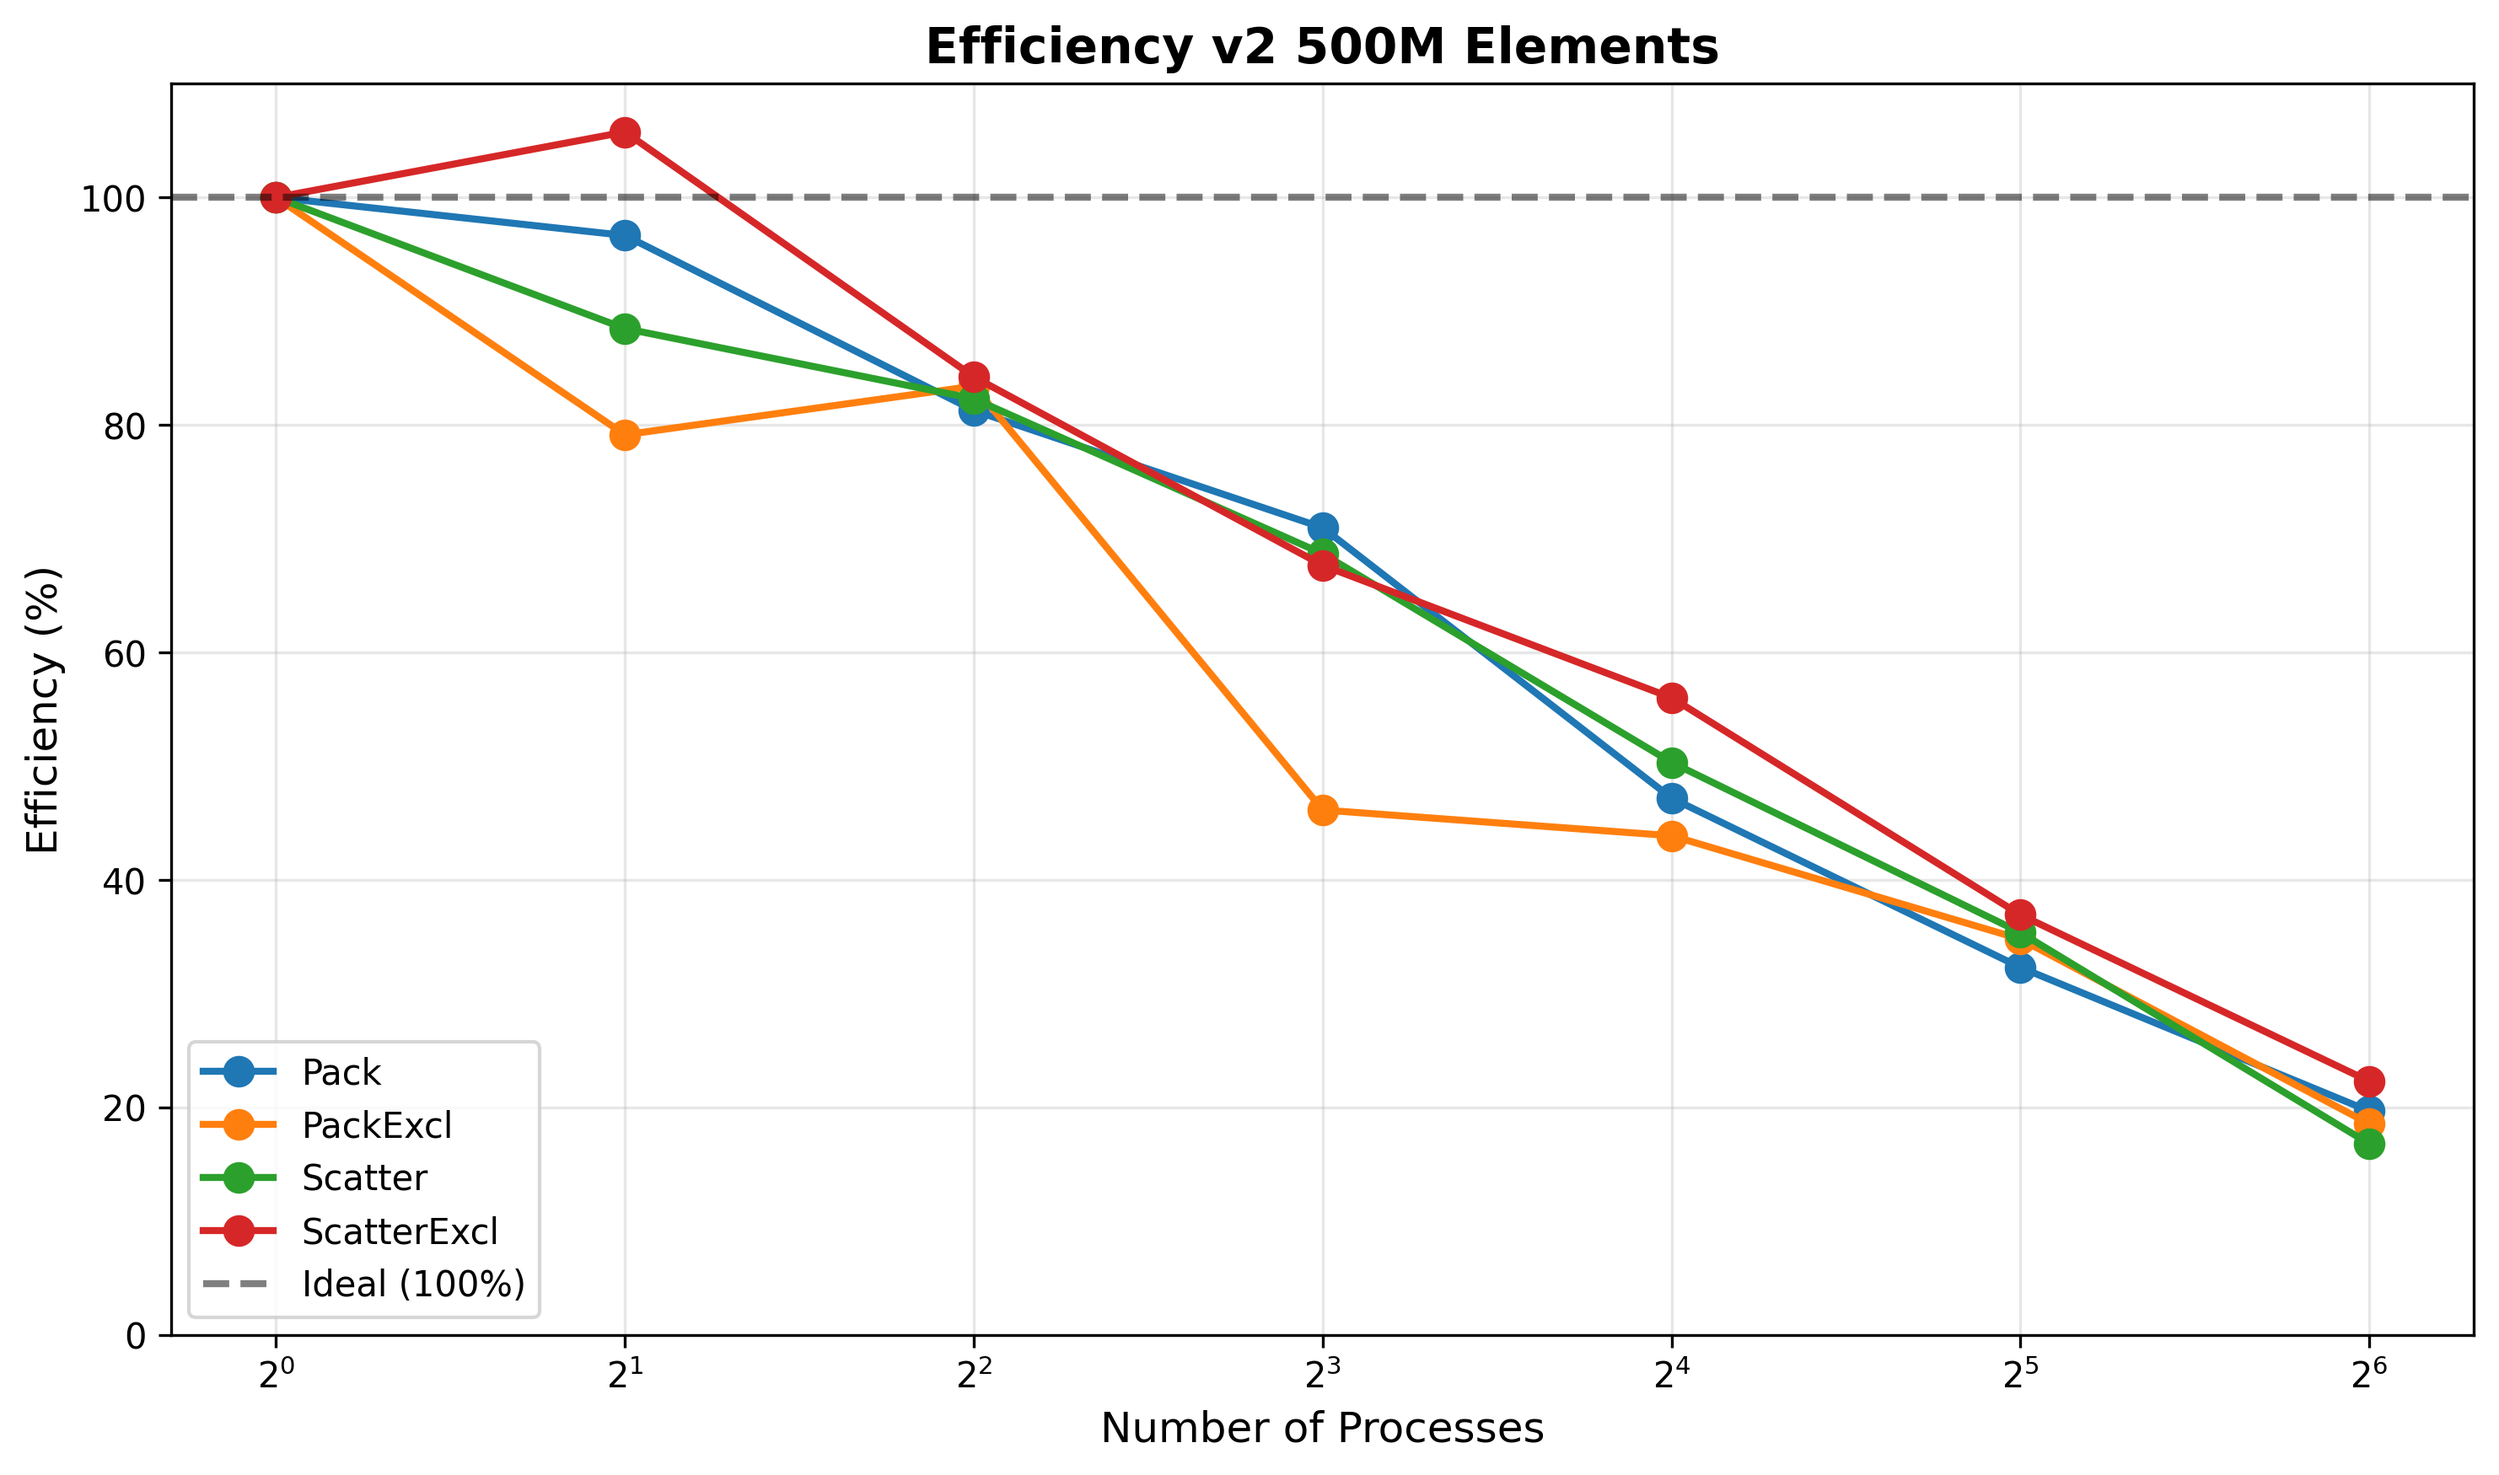
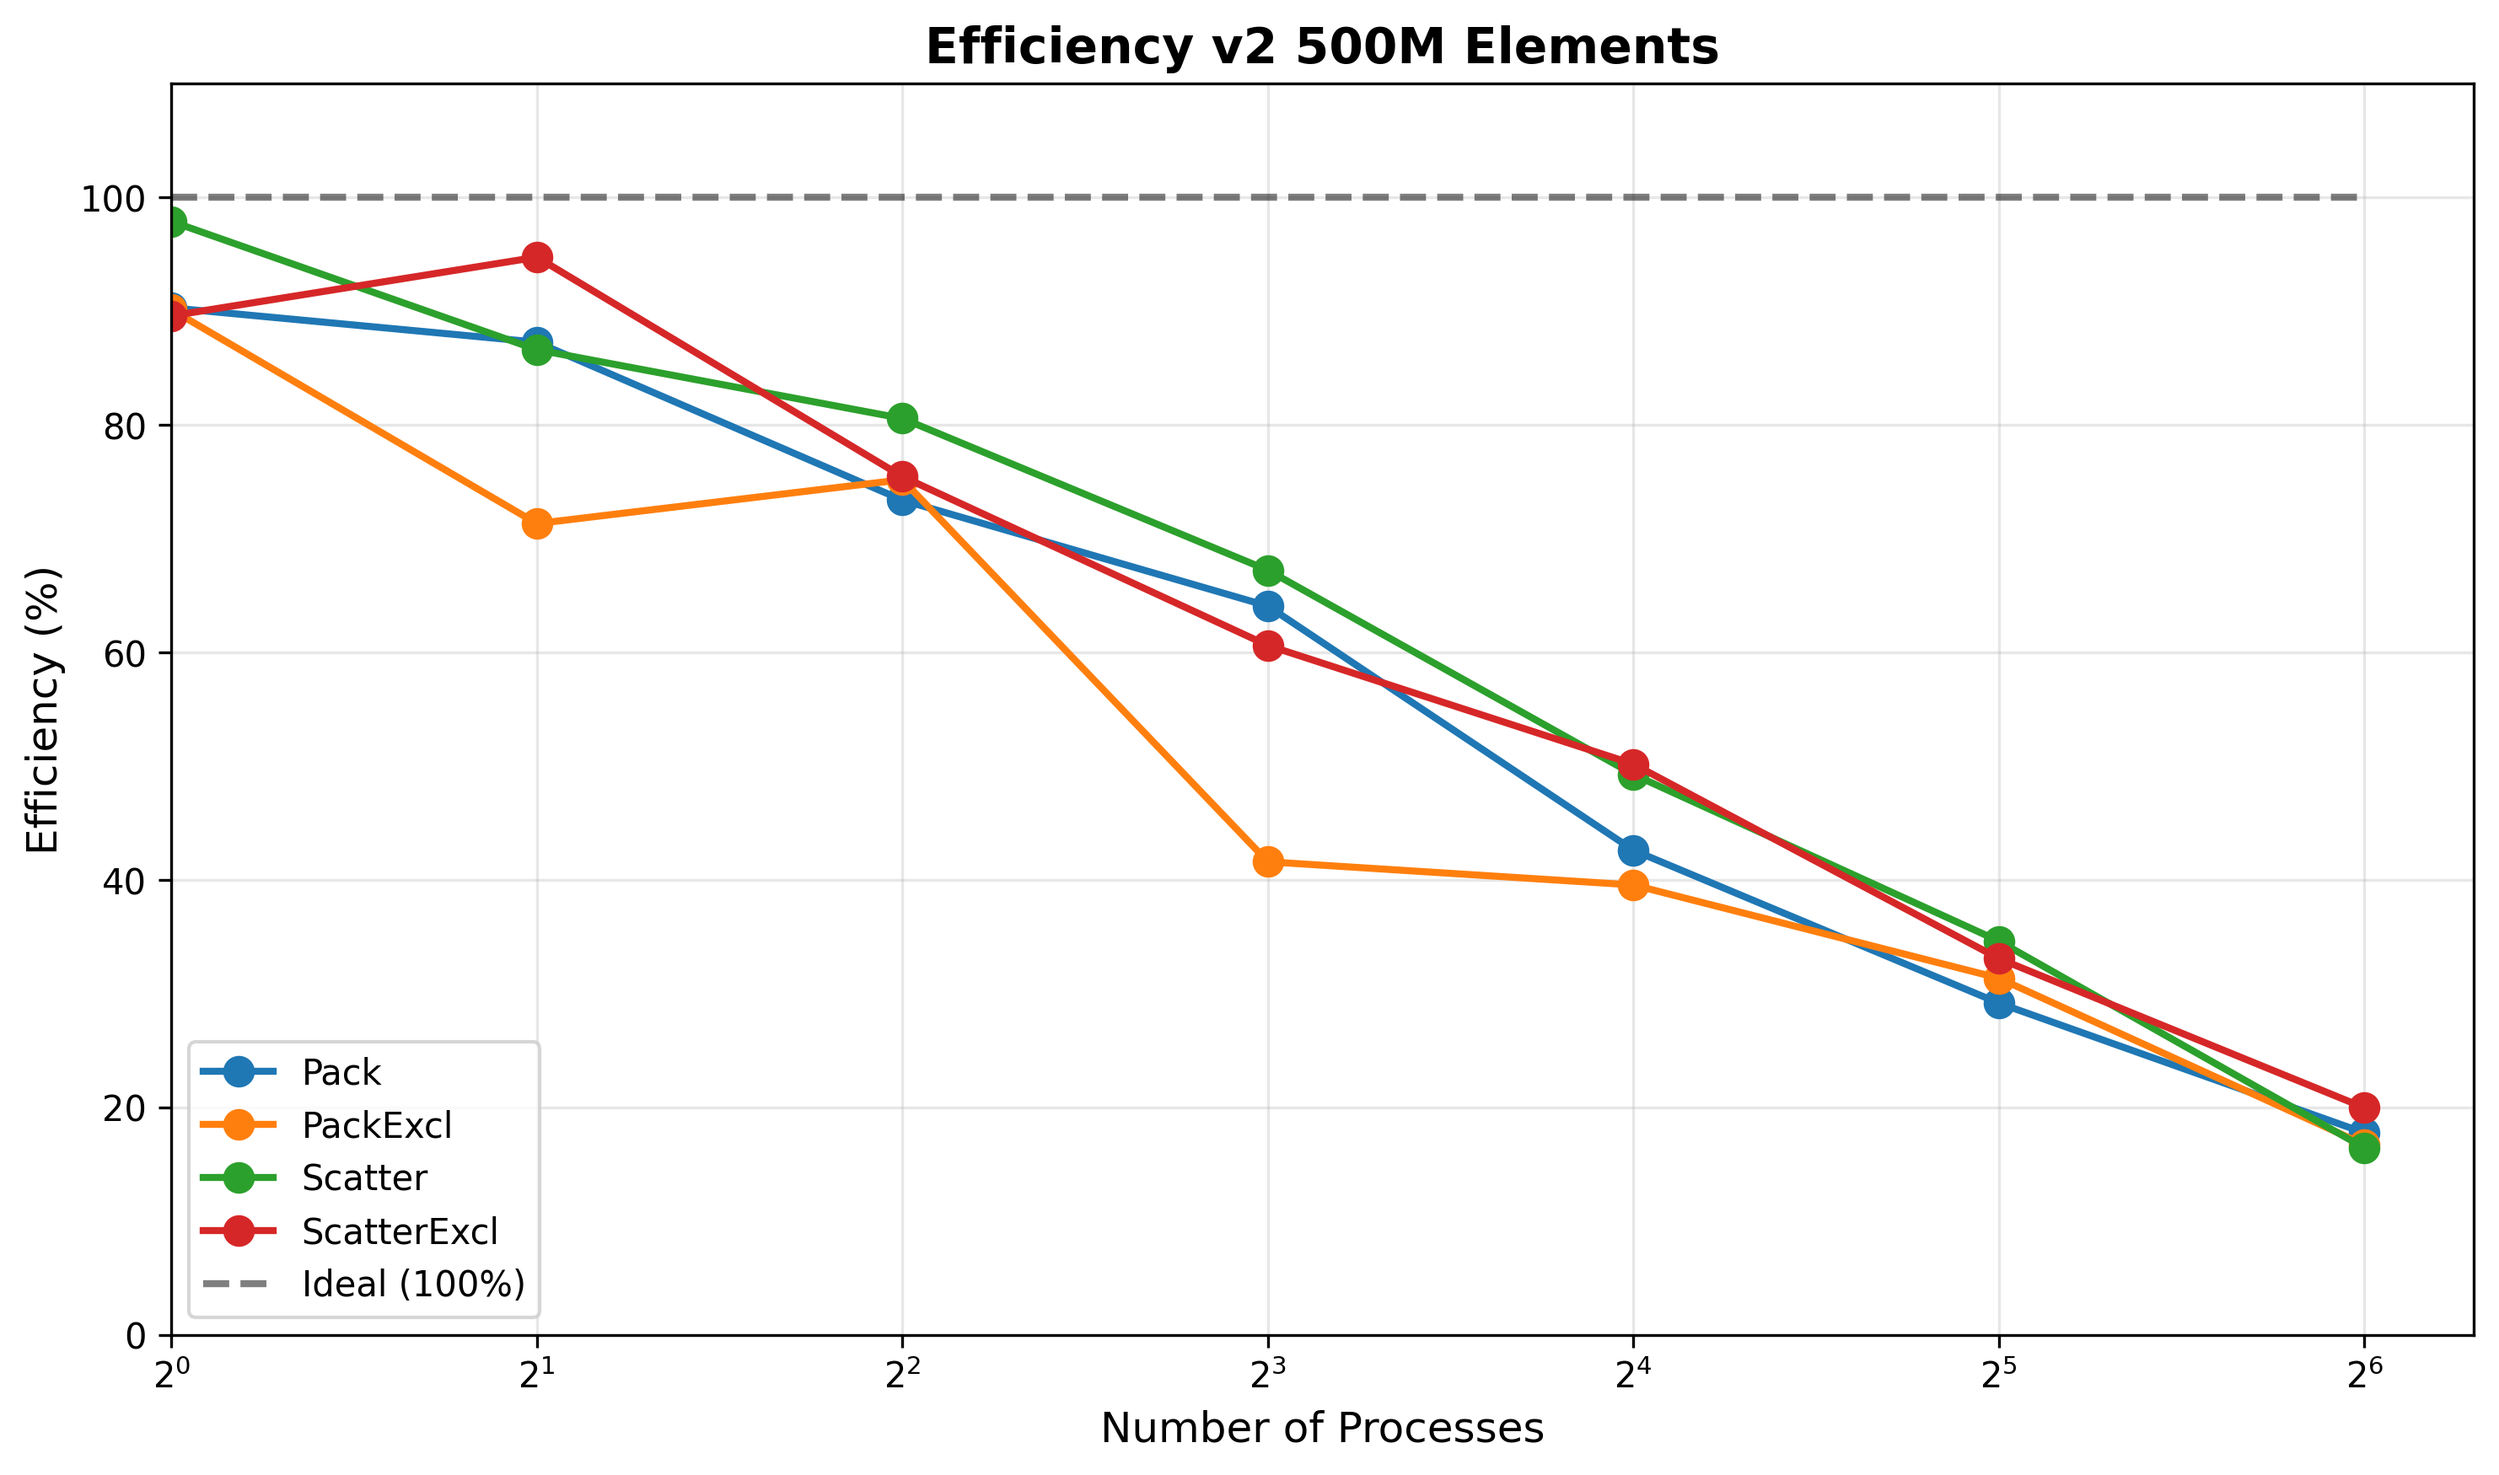
fix plots

diff --git a/scripts/plot_speedup_v2.py b/scripts/plot_speedup_v2.py
@@ -10,7 +10,7 @@ def parse_configuration(config_str):
     except:
         return {}
 
-def analyze_csv(csv_path):
+def analyze_csv(csv_path, baseline_time):
     data = pd.read_csv(csv_path)
 
     data['config'] = data['configuration'].apply(parse_configuration)
@@ -24,19 +24,27 @@ def analyze_csv(csv_path):
 
     data = data.sort_values('processes')
 
-    # Since there are multiple rows with the same process count, keep only the row with minimum time
+    # Since there are multiple configurations per process count, select the one with the minimum value
     data = data.loc[data.groupby('processes')['avg_time_taken'].idxmin()]
 
-    baseline = data[data['processes'] == 1]['avg_time_taken'].iloc[0]
-
-    data['speedup'] = baseline / data['avg_time_taken']
+    data['speedup'] = baseline_time / data['avg_time_taken']
     data['efficiency'] = (data['speedup'] / data['processes']) * 100
 
     return data
 
 
-def plot_speedup(csv_files, folder='data', output='speedup_plot.png'):
+def plot_speedup(csv_files, baseline_file, folder='data', output='speedup_plot.png'):
+    baseline_path = os.path.join(folder, baseline_file)
+    if not os.path.exists(baseline_path):
+        raise FileNotFoundError(f"Baseline file not found: {baseline_path}")
+
+    baseline_data = pd.read_csv(baseline_path)
+    baseline_time = baseline_data['avg_time_taken'].iloc[0]
+    print(f"Using baseline time from {baseline_file}: {baseline_time:.2f}s\n")
+
     plt.figure(figsize=(10, 6))
+
+    all_processes = []
 
     for csv_info in csv_files:
         csv_path = os.path.join(folder, csv_info['path'])
@@ -45,25 +53,20 @@ def plot_speedup(csv_files, folder='data', output='speedup_plot.png'):
             print(f"Warning: {csv_path} not found, skipping...")
             continue
 
-        df = analyze_csv(csv_path)
+        df = analyze_csv(csv_path, baseline_time)
 
         label = csv_info['label']
 
         plt.plot(df['processes'], df['speedup'], 'o-',
                 label=label, linewidth=2, markersize=8)
 
+        print(f"{label}:")
         print(f"  Processes: {df['processes'].tolist()}")
         print(f"  Best configs: {df['config_label'].tolist()}")
         print(f"  Times: {df['avg_time_taken'].round(2).tolist()}s")
-        print(f"  Speedup: {df['speedup'].round(2).tolist()}x")
+        print(f"  Speedup: {df['speedup'].round(2).tolist()}x\n")
 
-    all_processes = []
-    for csv_info in csv_files:
-        csv_name = csv_info['path']
-        csv_path = os.path.join(folder, csv_name)
-        if os.path.exists(csv_path):
-            df = analyze_csv(csv_path)
-            all_processes.extend(df['processes'].tolist())
+        all_processes.extend(df['processes'].tolist())
 
     if all_processes:
         max_processes = max(all_processes)
@@ -73,12 +76,13 @@ def plot_speedup(csv_files, folder='data', output='speedup_plot.png'):
 
     plt.xlabel('Number of Processes', fontsize=12)
     plt.ylabel('Speedup', fontsize=12)
-    plt.title('Speedup v2 50M Elements',
+    plt.title('Speedup v1 500M Elements',
               fontsize=14, fontweight='bold')
     plt.legend(fontsize=10)
     plt.grid(True, alpha=0.3)
     plt.xscale('log', base=2)
     plt.yscale('log', base=2)
+    plt.xlim(left=1)
 
     plt.tight_layout()
     plt.savefig(output, dpi=300, bbox_inches='tight')
@@ -88,12 +92,13 @@ def plot_speedup(csv_files, folder='data', output='speedup_plot.png'):
 
 if __name__ == "__main__":
     csv_files = [
-        {'path': 'benchmark_results_50000000_v2_pack.csv', 'label': 'Pack'},
-        {'path': 'benchmark_results_50000000_v2_packexcl.csv', 'label': 'PackExcl'},
-        {'path': 'benchmark_results_50000000_v2_scatter.csv', 'label': 'Scatter'},
-        {'path': 'benchmark_results_50000000_v2_scatterexcl.csv', 'label': 'ScatterExcl'},
+        {'path': 'benchmark_results_500m_v1_pack.csv', 'label': 'Pack'},
+        {'path': 'benchmark_results_500m_v1_packexcl.csv', 'label': 'PackExcl'},
+        {'path': 'benchmark_results_500m_v1_scatter.csv', 'label': 'Scatter'},
+        {'path': 'benchmark_results_500m_v1_scatterexcl.csv', 'label': 'ScatterExcl'},
     ]
 
+    baseline_file = 'benchmark_results_500m_linear.csv'
     folder = '../csv_results/'
 
-    plot_speedup(csv_files, folder=folder, output='speedup_plot_v2.png')
+    plot_speedup(csv_files, baseline_file, folder=folder, output='speedup_plot_500m_v1.png')

diff --git a/scripts/plot_efficiency.py b/scripts/plot_efficiency.py
@@ -1,5 +1,6 @@
 import pandas as pd
 import matplotlib.pyplot as plt
+import numpy as np
 import os
 import ast
 
@@ -9,7 +10,7 @@ def parse_configuration(config_str):
     except:
         return {}
 
-def analyze_csv(csv_path):
+def analyze_csv(csv_path, baseline_time):
     data = pd.read_csv(csv_path)
 
     data['config'] = data['configuration'].apply(parse_configuration)
@@ -25,16 +26,24 @@ def analyze_csv(csv_path):
 
     data = data.loc[data.groupby('processes')['avg_time_taken'].idxmin()]
 
-    baseline = data[data['processes'] == 1]['avg_time_taken'].iloc[0]
-
-    data['speedup'] = baseline / data['avg_time_taken']
+    data['speedup'] = baseline_time / data['avg_time_taken']
     data['efficiency'] = (data['speedup'] / data['processes']) * 100
 
     return data
 
 
-def plot_efficiency(csv_files, folder='data', output='efficiency_plot.png'):
+def plot_efficiency(csv_files, baseline_file, folder='data', output='efficiency_plot.png'):
+    baseline_path = os.path.join(folder, baseline_file)
+    if not os.path.exists(baseline_path):
+        raise FileNotFoundError(f"Baseline file not found: {baseline_path}")
+
+    baseline_data = pd.read_csv(baseline_path)
+    baseline_time = baseline_data['avg_time_taken'].iloc[0]
+    print(f"Using baseline time from {baseline_file}: {baseline_time:.2f}s\n")
+
     plt.figure(figsize=(10, 6))
+
+    all_processes = []
 
     for csv_info in csv_files:
         csv_path = os.path.join(folder, csv_info['path'])
@@ -43,43 +52,53 @@ def plot_efficiency(csv_files, folder='data', output='efficiency_plot.png'):
             print(f"Warning: {csv_path} not found, skipping...")
             continue
 
-        df = analyze_csv(csv_path)
+        df = analyze_csv(csv_path, baseline_time)
 
         label = csv_info['label']
 
         plt.plot(df['processes'], df['efficiency'], 'o-',
                 label=label, linewidth=2, markersize=8)
 
+        print(f"{label}:")
         print(f"  Processes: {df['processes'].tolist()}")
         print(f"  Best configs: {df['config_label'].tolist()}")
         print(f"  Times: {df['avg_time_taken'].round(2).tolist()}s")
-        print(f"  Efficiency: {df['efficiency'].round(1).tolist()}%")
+        print(f"  Speedup: {df['speedup'].round(2).tolist()}x")
+        print(f"  Efficiency: {df['efficiency'].round(2).tolist()}%\n")
 
-    plt.axhline(y=100, color='k', linestyle='--', alpha=0.5,
+        all_processes.extend(df['processes'].tolist())
+
+    if all_processes:
+        max_processes = max(all_processes)
+        ideal_x = np.array([1, max_processes])
+        plt.plot(ideal_x, [100, 100], 'k--', alpha=0.5,
                 label='Ideal (100%)', linewidth=2)
 
     plt.xlabel('Number of Processes', fontsize=12)
     plt.ylabel('Efficiency (%)', fontsize=12)
-    plt.title('Efficiency v3 500M Elements',
+    plt.title('Efficiency v1 1000M Elements',
               fontsize=14, fontweight='bold')
     plt.legend(fontsize=10)
     plt.grid(True, alpha=0.3)
     plt.xscale('log', base=2)
-    plt.ylim(0, 110)
+    plt.xlim(left=1)
+    plt.ylim(bottom=0, top=110)
 
     plt.tight_layout()
     plt.savefig(output, dpi=300, bbox_inches='tight')
     print(f"\nPlot saved to: {output}")
     plt.show()
 
+
 if __name__ == "__main__":
     csv_files = [
-        {'path': 'benchmark_results_500000000_v3_pack.csv', 'label': 'Pack'},
-        {'path': 'benchmark_results_500000000_v3_packexcl.csv', 'label': 'PackExcl'},
-        {'path': 'benchmark_results_500000000_v3_scatter.csv', 'label': 'Scatter'},
-        {'path': 'benchmark_results_500000000_v3_scatterexcl.csv', 'label': 'ScatterExcl'},
+        {'path': 'benchmark_results_1000m_v1_pack.csv', 'label': 'Pack'},
+        {'path': 'benchmark_results_1000m_v1_packexcl.csv', 'label': 'PackExcl'},
+        {'path': 'benchmark_results_1000m_v1_scatter.csv', 'label': 'Scatter'},
+        {'path': 'benchmark_results_1000m_v1_scatterexcl.csv', 'label': 'ScatterExcl'},
     ]
 
+    baseline_file = 'benchmark_results_1000m_linear.csv'
     folder = '../csv_results/'
 
-    plot_efficiency(csv_files, folder=folder, output='efficiency_plot_v3.png')
+    plot_efficiency(csv_files, baseline_file, folder=folder, output='efficiency_plot_1000m_v1.png')
